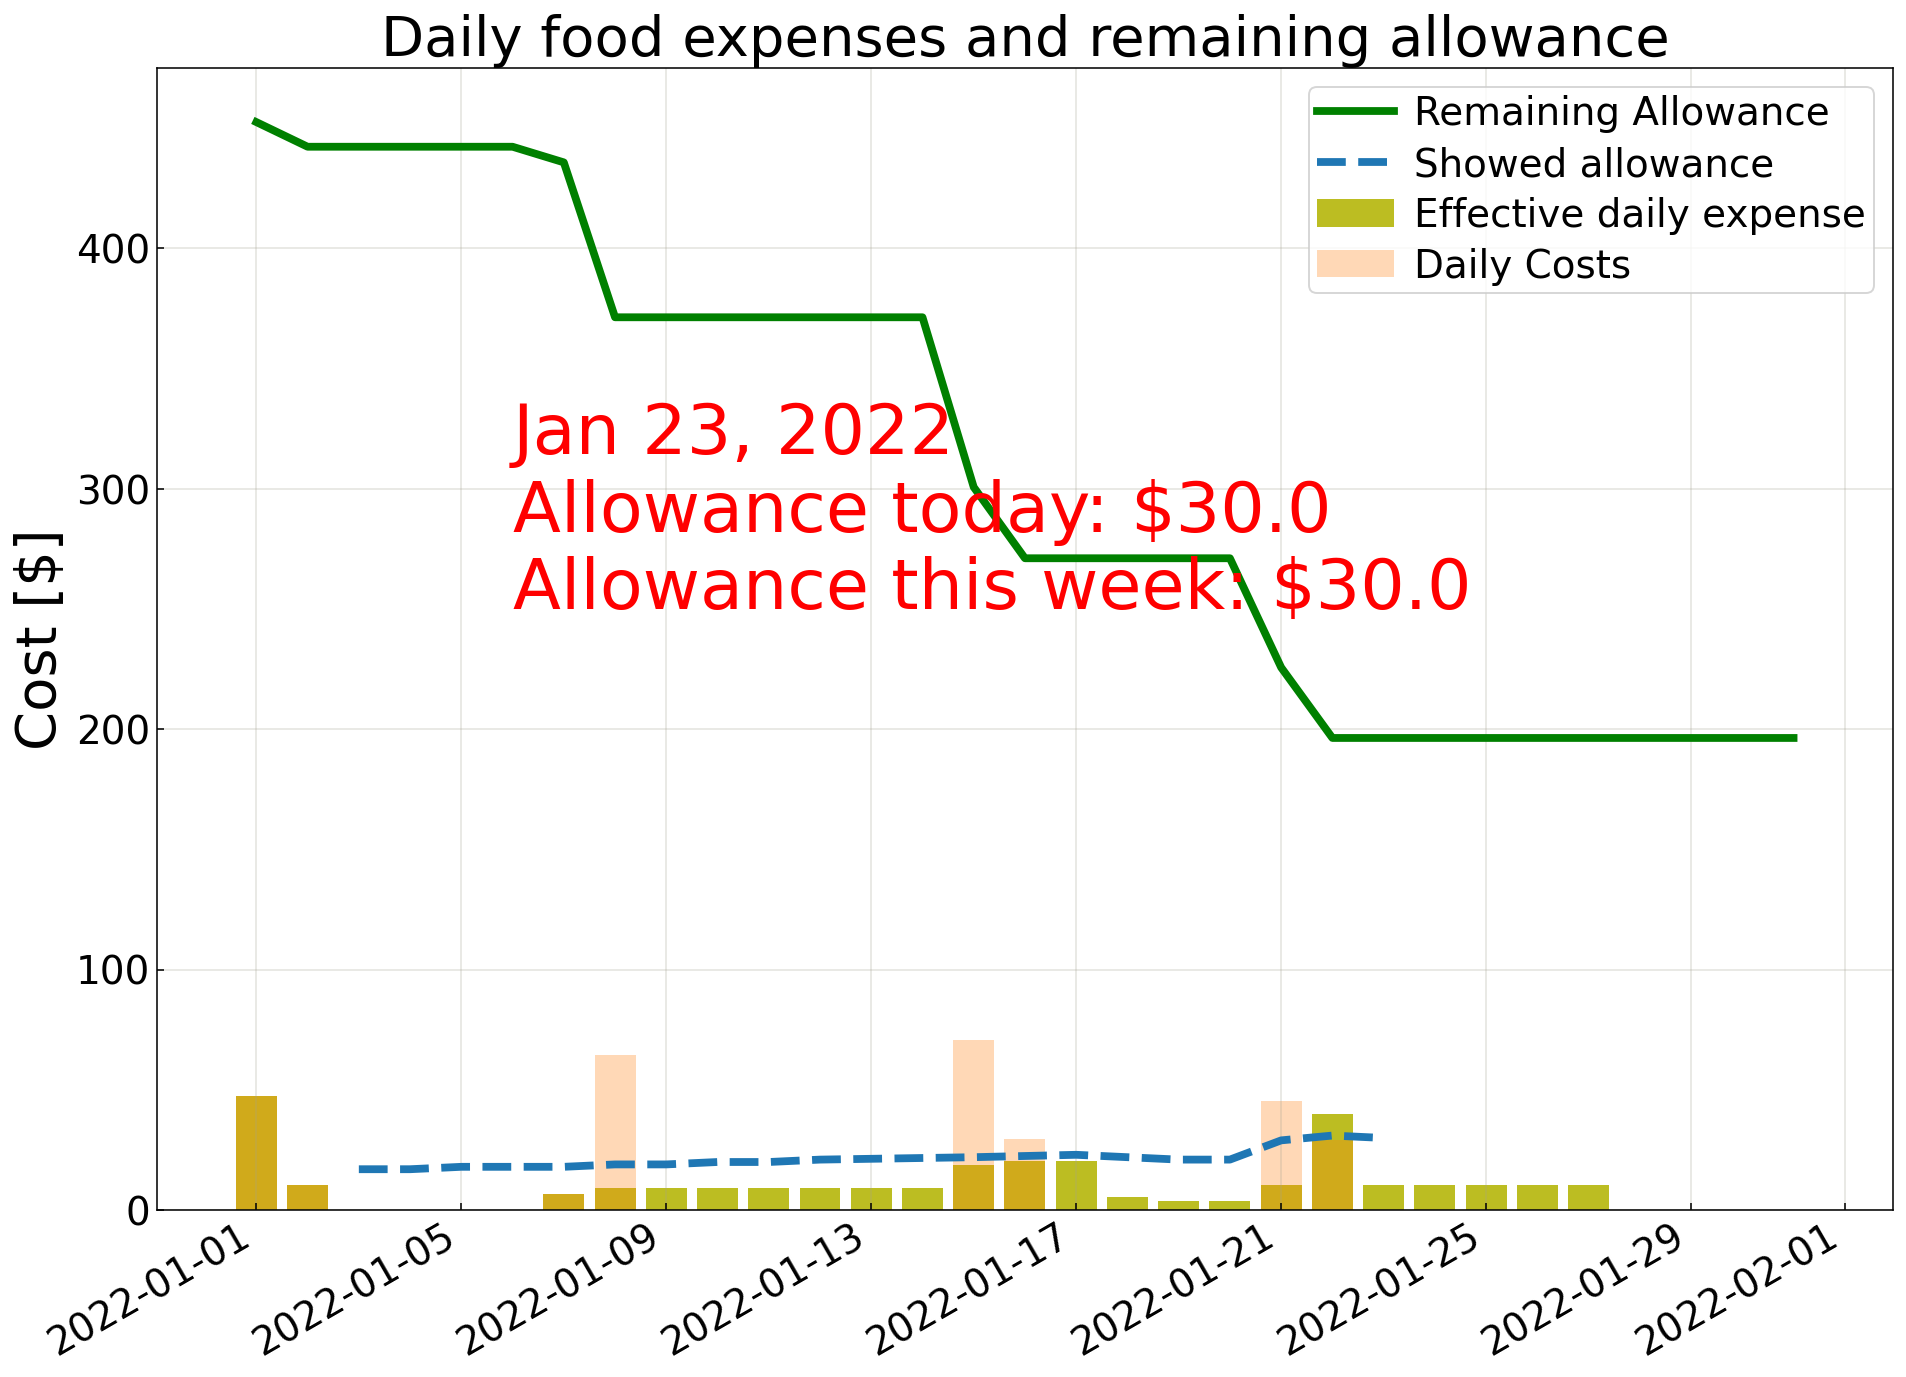
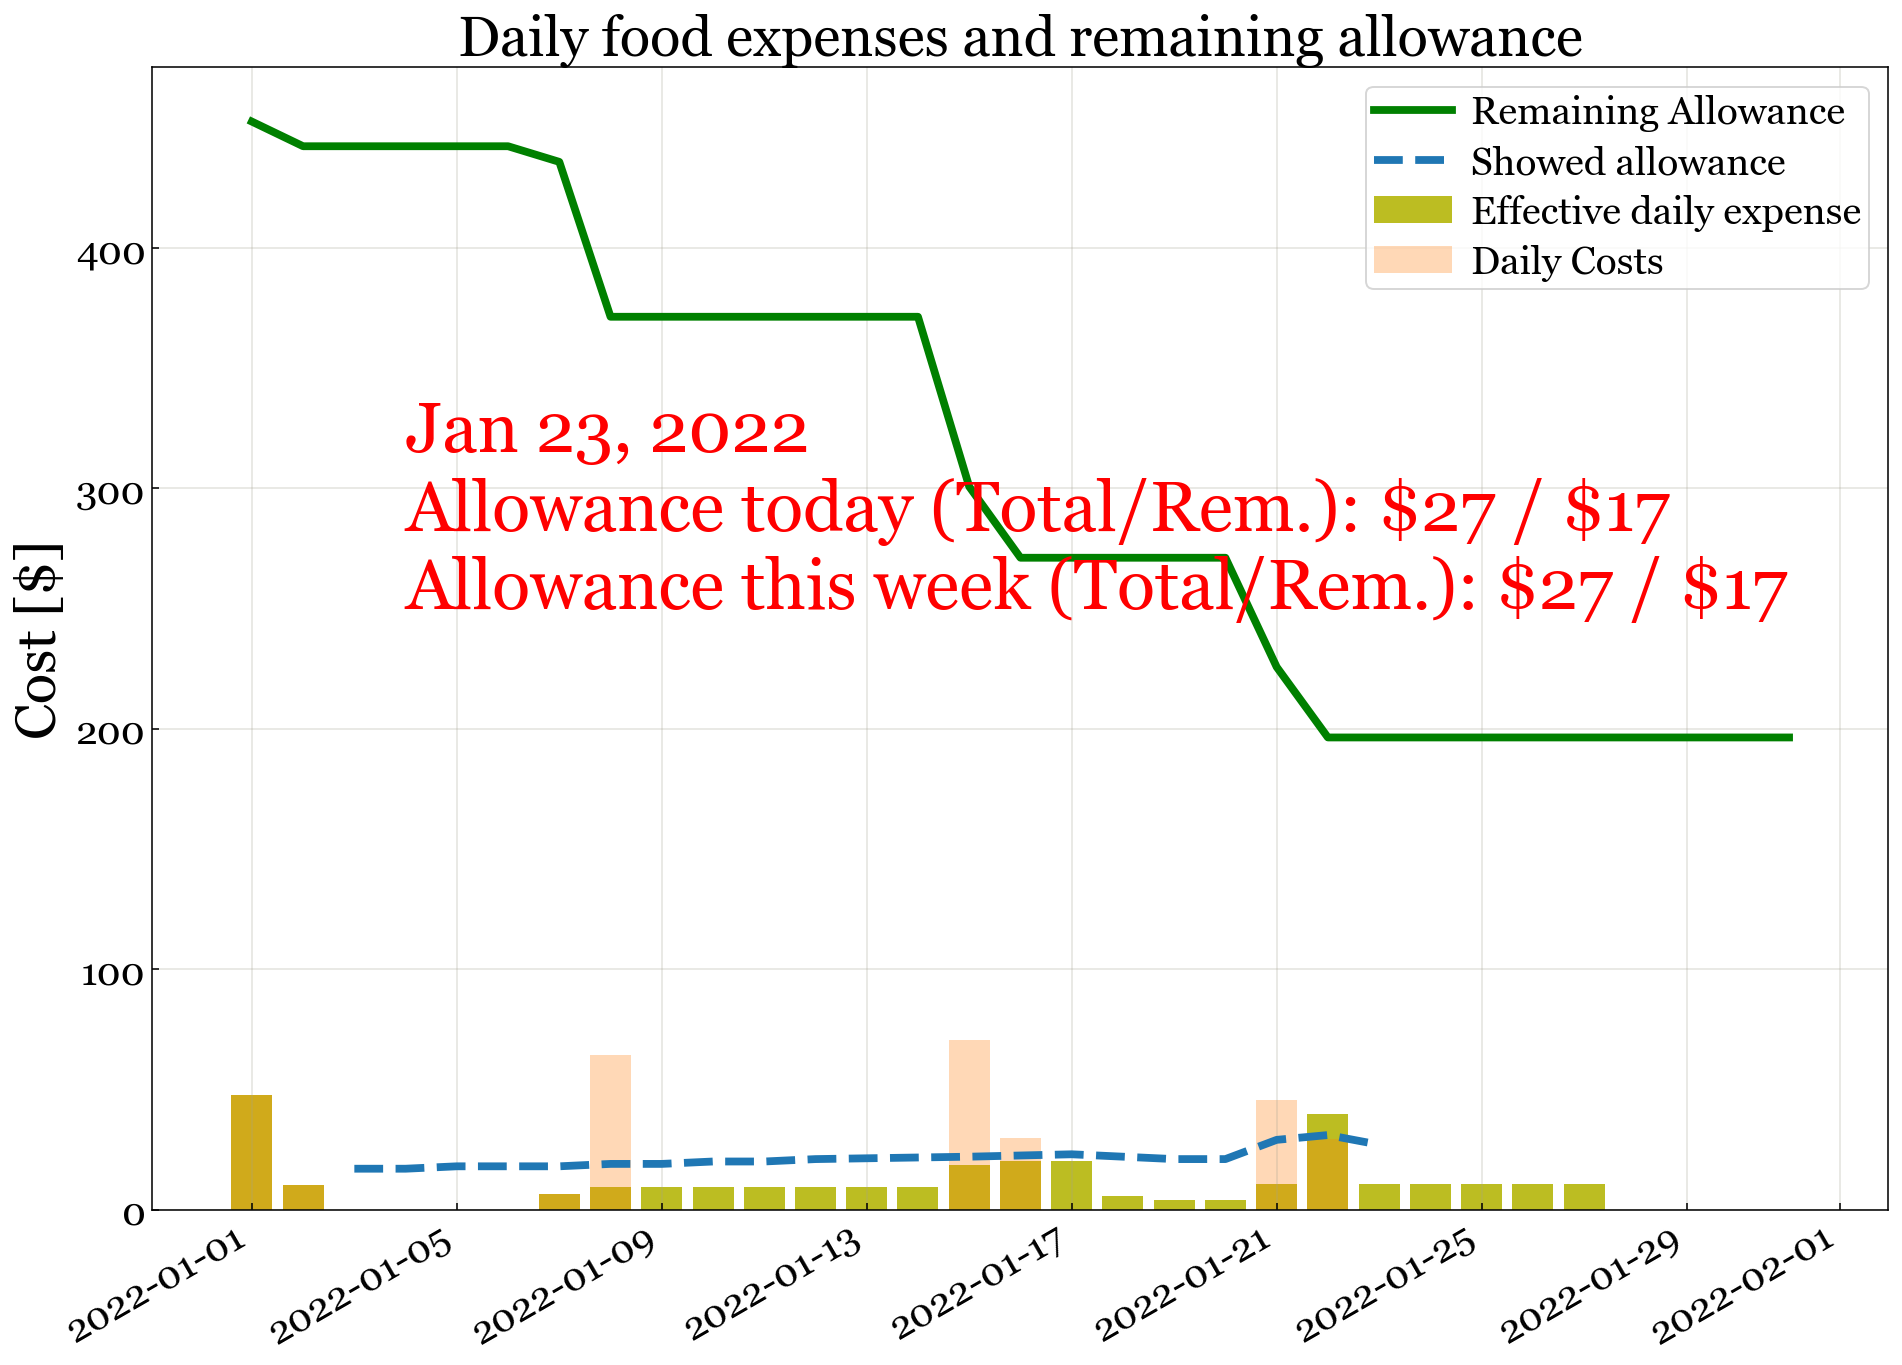
Corrected calculation and showing remaining each day and week

diff --git a/foodExpenses.py b/foodExpenses.py
@@ -88,16 +88,19 @@ def foodExpenses():
     tt = [date(today.year, today.month, day) for day in range(1, totalDays+1)]
     dailyCosts = np.zeros(len(tt))
     perDiumCost = np.zeros_like(dailyCosts)
+    todayInd = today.day - 1
     for ii in range(noEntries):
         if today.month == dates[ii].month:
             ttind = dates[ii].day - 1
             dF = int(daysFor[ii])
             dailyCosts[ttind] += cost[ii]
             perDiumCost[ttind:ttind+dF] += np.ones(dF) * cost[ii] / dF
-    todayAllowance = np.round((monthlyAllowance
-                               - np.sum(perDiumCost[:today.day]))
-                              / (totalDays - today.day), 0)
+    todayAllowance = ((monthlyAllowance - np.sum(perDiumCost[:todayInd]))
+                      / (totalDays - todayInd))
     thisWeekAllow = todayAllowance * (7 - today.weekday())
+    todayRemAllow = todayAllowance - perDiumCost[todayInd]
+    thisWeekRemAllow = (thisWeekAllow
+                        - perDiumCost[todayInd:todayInd + 7 - today.weekday()])
 
     with open('showedAllowance.txt', 'r') as f:
         allLines = f.readlines()
@@ -107,6 +110,11 @@ def foodExpenses():
         ttSA[ii] = datetime.strptime(allLines[ii].split(' ')[0],
                                      '%Y/%m/%d').date()
         showedAllowance[ii] = float(allLines[ii].split(' ')[1])
+
+    todayAllowance = int(todayAllowance)
+    todayRemAllow = int(todayRemAllow)
+    thisWeekAllow = int(thisWeekAllow)
+    thisWeekRemAllow = int(thisWeekRemAllow)
 
     writeOver = False
     if ttSA[-1] != today:
@@ -133,9 +141,11 @@ def foodExpenses():
     ax.legend()
     ax.set_title('Daily food expenses and remaining allowance')
     ax.set_ylabel('Cost [$]')
-    ax.text(tt[5], monthlyAllowance/2,
-            '{}\nAllowance today: ${}\nAllowance this week: ${}'.format(
-                today.strftime('%b %d, %Y'), todayAllowance, thisWeekAllow),
+    ax.text(tt[3], monthlyAllowance/2,
+            '{}\nAllowance today (Total/Rem.): \${} / \${}\n'
+            'Allowance this week (Total/Rem.): \${} / \${}'.format(
+                today.strftime('%b %d, %Y'), todayAllowance, todayRemAllow,
+                thisWeekAllow, thisWeekRemAllow),
             fontsize=36, color='red')
     fig.autofmt_xdate()
     fig.savefig('DailyCostsAndParameters.png')
